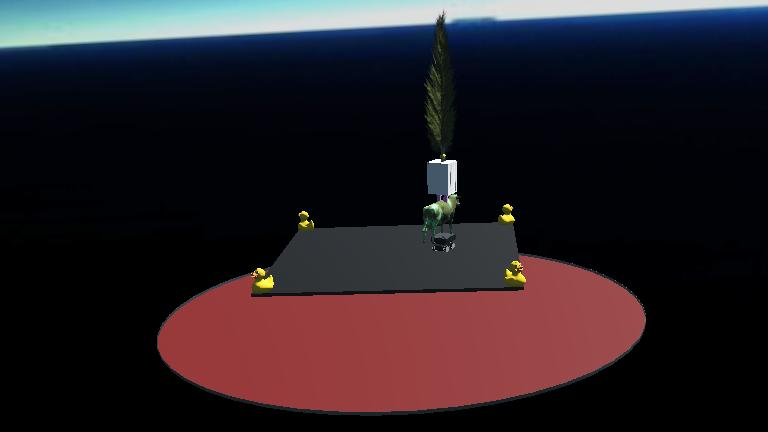
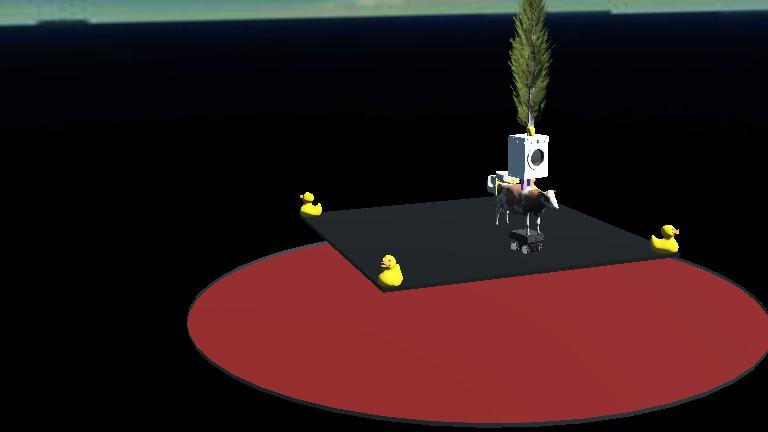
new

diff --git a/webots/controllers/my_controller/my_controller.py b/webots/controllers/my_controller/my_controller.py
@@ -1,93 +1,151 @@
-from controller import Robot, Motor, Camera, DistanceSensor, Keyboard
 
-KEYBOARD_SAMPLING_PERIOD = 200
-TIME_STEP = 64
+from controller import Robot, Motor, DistanceSensor, GPS
+import random
 
-CAMERA_SAMPLING_PERIOD = 50
-CAMERA_RECOGNITION_SAMPLING_PERIOD = 100
+class SmashBotMotor(Motor):
 
-class EpuckCamera(Camera):
-    def __init__(self):
-        super().__init__('camera')
-        self.enable(CAMERA_SAMPLING_PERIOD)
-        self.recognitionEnable(CAMERA_RECOGNITION_SAMPLING_PERIOD)
-        self.__tracked_name = None
-
-    def track_object(self, object_name):
-        self.__tracked_name = object_name
-
-    def is_tracked_object_present(self):
-        objs = self.getRecognitionObjects()
-        for obj in objs:
-            print('I saw something !')
-            print(obj)
-            if self.__tracked_name == obj.get_model().decode("utf-8"):
-                self.__recognized_object = obj
-                return True
-        return False
-
-
-DISTANCE_SENSIOR_SAMPLING_PERIOD = 50
-
-class EpuckDistanceSensor(DistanceSensor):
-    def __init__(self, name):
-        DistanceSensor.__init__(self, name)
-        self.enable(DISTANCE_SENSIOR_SAMPLING_PERIOD)
-
-class EpuckDistanceSensors():
-    DISTANCE_THRESHOLD = 78
-
-    def __init__(self):
-        self.__front_left = EpuckDistanceSensor('ps7')
-        self.__front_left2 = EpuckDistanceSensor('ps6')
-        self.__front_right = EpuckDistanceSensor('ps0')
-        self.__front_right2 = EpuckDistanceSensor('ps1')
-    
-    # Useful to debug Robot adventures
-    def __str__(self):
-        return "Left sensors: %s, %s\nRight sensors: %s, %s"%(
-                self.__front_left.getValue(),
-                self.__front_left2.getValue(),
-                self.__front_right.getValue(),
-                self.__front_right2.getValue()
-        )
-
-    def __repr__(self):
-        return self.__str__()
-
-    def front_left_collision_detected(self):
-        return (self.__front_left.getValue() > self.DISTANCE_THRESHOLD or
-                self.__front_left2.getValue() > self.DISTANCE_THRESHOLD)
-    
-    def front_right_collision_detected(self):
-        return (self.__front_right.getValue() > self.DISTANCE_THRESHOLD or
-                self.__front_right2.getValue() > self.DISTANCE_THRESHOLD)
-
-class RobotMotor(Motor):
-    def __init__(self, name):
+    def __init__(self, name=None):
         super().__init__(name)
         self.setPosition(float('inf'))
         self.setVelocity(0)
-        self.max_speed = self.getMaxVelocity()
+        
 
-class SeatechRobot(Robot):
-    max_speed = 60
+class SmashBotMotors():
+    def __init__(self, speed=None):
+        self.__front_right_wheel_m = SmashBotMotor("front_right_wheel_joint")
+        self.__front_left_wheel_m = SmashBotMotor("front_left_wheel_joint")
+        self.__rear_right_wheel_m = SmashBotMotor("back_right_wheel_joint")
+        self.__rear_left_wheel_m = SmashBotMotor("back_left_wheel_joint")
+    
+    def go_forward(self, speed=5):
+        self.__front_right_wheel_m.setVelocity(speed)
+        self.__front_left_wheel_m.setVelocity(speed)
+        self.__rear_left_wheel_m.setVelocity(speed)
+        self.__rear_right_wheel_m.setVelocity(speed)
+
+    def go_backwards(self, speed=5):
+
+        self.__front_right_wheel_m.setVelocity(-1*speed)
+        self.__front_left_wheel_m.setVelocity(-1*speed)
+        self.__rear_left_wheel_m.setVelocity(-1*speed)
+        self.__rear_right_wheel_m.setVelocity(-1*speed)
+        print("Go Back method")
+
+    def go_left(self, speed=20):
+        self.__front_right_wheel_m.setVelocity(3*speed)
+        self.__front_left_wheel_m.setVelocity(-speed)
+        self.__rear_left_wheel_m.setVelocity(-speed)
+        self.__rear_right_wheel_m.setVelocity(3*speed)
+        print("Go Left method")
+
+    def go_right(self, speed=20):
+            self.__front_right_wheel_m.setVelocity(-speed)
+            self.__front_left_wheel_m.setVelocity(3*speed)
+            self.__rear_left_wheel_m.setVelocity(3*speed)
+            self.__rear_right_wheel_m.setVelocity(-speed)
+
+class SmashBot(Robot):
+
+    def __init__(self, speed=None):
+        super().__init__()
+        self.__motors = SmashBotMotors()
+        self.__sensors = SmashBotSensors()
+        self.gps = SmashBotGPS()
+
+    def run(self, dir='forward', speed=20):
+        if dir=='forward':
+            self.__motors.go_forward()
+        elif dir=='backwards':
+            self.__motors.go_backwards()
+        elif dir=='left':
+            self.__motors.go_left()
+        elif dir=='right':
+            self.__motors.go_right()
+
+        self.__sensors.get_sensor()
+        self.__sensors.print_sensor_value()
+                
+
+
+class SmashBotSensor(DistanceSensor):
     def __init__(self):
         super().__init__()
-        self.__leftMotor = RobotMotor('front_left_wheel_joint')
-        self.__leftMotor2 = RobotMotor('back_left_wheel_joint') 
-        self.__rightMotor = RobotMotor('back_right_wheel_joint')
-        self.__rightMotor2 = RobotMotor('front_right_wheel_joint')
+        self.enable()
+        #self.getValue()
 
-    def run(self):
-        self.__rightMotor2.setVelocity(15)
-        self.__rightMotor.setVelocity(15)
-        self.__leftMotor.setVelocity(1)
-        self.__leftMotor2.setVelocity(1)
-
-    # create the Robot instance.
-robot = SeatechRobot()
-while robot.step(TIME_STEP) != -1:
-    robot.run()
+class SmashBotSensors(SmashBotSensor):
     
+    def __init__(self):
+        self.__front_right_sensor = DistanceSensor("front right distance sensor")
+        self.__front_left_sensor = DistanceSensor("front left distance sensor")
+        self.__rear_right_sensor = DistanceSensor("rear right distance sensor")
+        self.__rear_left_sensor = DistanceSensor("rear left distance sensor")
+
+    def get_sensor(self):
+        return [self.__front_right_sensor.getValue(),
+        self.__front_left_sensor.getValue(),
+        self.__rear_right_sensor.getValue(),
+        self.__rear_left_sensor.getValue()]
+
+    def print_sensor_value(self):
+        print("sensor value :")
+        print(self.__front_left_sensor.getValue())
+    
+class SmashBotGPS(GPS):
+    def __init__(self):
+        super().__init__('gps')
+
+
+    def getGPS(self):
+        return self.getValues()
+
+    def checkGPS(self):
+        borders={
+            "right":2.5,
+            "left":-2.5,
+            "front":2.5,
+            "back":-2.5
+        }
+
+        limit=0.3
+
+        coord=self.getValues()
+        long=[]
+
+        for key,value in borders.items():
+            long.append(abs(coord[0]-borders[key]))
+            long.append(abs(coord[1]-borders[key]))
+
+        long = min(long)
+
+        if(long<limit):
+            print(True)
+            return True
+        else:
+            print(False)
+            return False
+
+
+robot = SmashBot()
+
+
+timestep = int(robot.getBasicTimeStep())
+
+while robot.step(timestep) != -1:
+    gpsVal = robot.gps.getGPS()
+
+
+    robot.run("forwward")
+
+    if(robot.gps.checkGPS()==True):
+        if(turn==1):
+            robot.run("right")
+        else:
+            robot.run("left")
+    else:
+        robot.run("forward")
+        if(random.randint(0,1)==1):
+            turn=1
+        else:
+            turn=0
 
